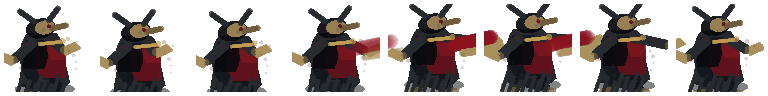
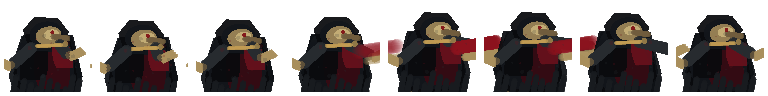
fix: improve gothic enemy assets

diff --git a/tools/generateEnemyBossSheets.py b/tools/generateEnemyBossSheets.py
@@ -82,77 +82,113 @@ def draw_cathedral_ghoul(
     smear: float,
     crouch: float = 0.0,
 ) -> None:
-    bob = math.sin(phase) * 1.5 + crouch
-    cx = fw * 0.5 + attack_reach * 4.0
-    cy = fh * 0.62 + bob
-    shoulder_x = cx - 3.0
-    shoulder_y = cy - 24.0
+    bob = math.sin(phase) * 1.2 + crouch
+    cx = fw * 0.5 + attack_reach * 3.0
+    cy = fh * 0.60 + bob
+    shoulder_x = cx - 1.0
+    shoulder_y = cy - 20.0
 
-    draw_rotated_ellipse(pixels, sheet_width, x_offset, cx - 2, cy + 27, 30, 7, 0.0, SHADOW, fw, fh)
+    draw_rotated_ellipse(pixels, sheet_width, x_offset, cx - 1, cy + 31, 34, 8, 0.0, SHADOW, fw, fh)
 
-    rear_leg = stride * -7.5
-    front_leg = stride * 7.5
-    draw_limb(pixels, sheet_width, x_offset, cx - 10, cy + 14, cx - 18 + rear_leg, cy + 30, 5, COAT_EDGE, fw, fh)
-    draw_limb(pixels, sheet_width, x_offset, cx + 6, cy + 13, cx + 12 + front_leg, cy + 30, 5, INK, fw, fh)
-    draw_rotated_ellipse(pixels, sheet_width, x_offset, cx - 21 + rear_leg, cy + 32, 8, 3, -0.2, BONE_DARK, fw, fh)
-    draw_rotated_ellipse(pixels, sheet_width, x_offset, cx + 15 + front_leg, cy + 32, 8, 3, 0.1, BONE_DARK, fw, fh)
-
-    coat_points = [
-        (cx - 20, cy - 22),
-        (cx + 14, cy - 22),
-        (cx + 24 + stride * 2, cy + 21),
-        (cx + 8, cy + 34),
-        (cx - 28 - stride * 2, cy + 24),
+    fixed_cx = fw * 0.5
+    back_cloak_points = [
+        (fixed_cx - 25, cy - 25),
+        (fixed_cx + 25, cy - 25),
+        (fixed_cx + 34, cy + 15),
+        (fixed_cx + 29, cy + 38),
+        (fixed_cx + 10, cy + 34),
+        (fixed_cx - 5, cy + 43),
+        (fixed_cx - 22, cy + 37),
+        (fixed_cx - 35, cy + 14),
     ]
-    draw_polygon(pixels, sheet_width, x_offset, coat_points, COAT, fw, fh)
-    draw_rotated_ellipse(pixels, sheet_width, x_offset, cx - 4, cy - 5, 23, 31, -0.08, COAT, fw, fh)
-    draw_rotated_ellipse(pixels, sheet_width, x_offset, cx + 4, cy + 1, 15, 26, -0.22, CRIMSON, fw, fh)
-    draw_rotated_ellipse(pixels, sheet_width, x_offset, cx - 11, cy - 5, 12, 24, 0.24, INK, fw, fh)
-    draw_rotated_ellipse(pixels, sheet_width, x_offset, cx + 10, cy - 11, 9, 18, -0.34, (124, 22, 31, 198), fw, fh)
+    draw_polygon(pixels, sheet_width, x_offset, back_cloak_points, (10, 12, 16, 238), fw, fh)
 
-    for i in range(8):
-        tail_x = cx - 24 + i * 6 + math.sin(phase + i) * 1.5
-        tail_y = cy + 15 + (i % 3) * 4
-        draw_limb(pixels, sheet_width, x_offset, tail_x, tail_y, tail_x - 6 + stride * 2, tail_y + 18, 2, COAT_EDGE, fw, fh)
+    mantle_points = [
+        (cx - 25, cy - 24),
+        (cx + 25, cy - 24),
+        (cx + 36, cy + 17),
+        (cx + 26, cy + 43),
+        (cx + 3, cy + 41),
+        (cx - 13, cy + 45),
+        (cx - 31, cy + 40),
+        (cx - 38, cy + 16),
+    ]
+    draw_polygon(pixels, sheet_width, x_offset, mantle_points, (13, 16, 20, 236), fw, fh)
 
-    head_x = shoulder_x - 2 + attack_reach * 2.0
-    head_y = shoulder_y - 10 + math.sin(phase + 0.6) * 0.8
-    draw_rotated_ellipse(pixels, sheet_width, x_offset, head_x, head_y, 15, 10, -0.2, INK, fw, fh)
-    draw_rotated_ellipse(pixels, sheet_width, x_offset, head_x + 4, head_y - 1, 10, 7, -0.18, BONE, fw, fh)
-    draw_limb(pixels, sheet_width, x_offset, head_x + 11, head_y, head_x + 25, head_y - 3, 3, BONE_DARK, fw, fh)
-    draw_circle(pixels, sheet_width, x_offset, head_x + 8, head_y - 2, 2, (92, 8, 15, 220), fw, fh)
-    draw_limb(pixels, sheet_width, x_offset, head_x - 7, head_y - 7, head_x - 21, head_y - 17, 3, COAT_EDGE, fw, fh)
-    draw_limb(pixels, sheet_width, x_offset, head_x + 8, head_y - 8, head_x + 17, head_y - 20, 3, COAT_EDGE, fw, fh)
+    rear_leg = stride * -8.0
+    front_leg = stride * 8.0
+    draw_limb(pixels, sheet_width, x_offset, cx - 10, cy + 20, cx - 19 + rear_leg, cy + 36, 5, COAT_EDGE, fw, fh)
+    draw_limb(pixels, sheet_width, x_offset, cx + 7, cy + 20, cx + 15 + front_leg, cy + 36, 5, INK, fw, fh)
+    draw_rotated_ellipse(pixels, sheet_width, x_offset, cx - 21 + rear_leg, cy + 37, 8, 3, -0.2, BONE_DARK, fw, fh)
+    draw_rotated_ellipse(pixels, sheet_width, x_offset, cx + 17 + front_leg, cy + 37, 8, 3, 0.1, BONE_DARK, fw, fh)
+
+    cloak_points = [
+        (cx - 27, cy - 17),
+        (cx + 24, cy - 18),
+        (cx + 31 + stride * 2, cy + 20),
+        (cx + 20, cy + 39),
+        (cx + 5, cy + 35),
+        (cx - 7, cy + 42),
+        (cx - 22, cy + 37),
+        (cx - 34 - stride * 2, cy + 21),
+    ]
+    draw_polygon(pixels, sheet_width, x_offset, cloak_points, INK, fw, fh)
+    draw_rotated_ellipse(pixels, sheet_width, x_offset, cx - 2, cy + 4, 29, 38, -0.06, COAT, fw, fh)
+    draw_rotated_ellipse(pixels, sheet_width, x_offset, cx + 5, cy + 11, 18, 32, -0.17, DEEP_CRIMSON, fw, fh)
+    draw_rotated_ellipse(pixels, sheet_width, x_offset, cx - 13, cy + 6, 14, 30, 0.16, INK, fw, fh)
+    draw_rotated_ellipse(pixels, sheet_width, x_offset, cx + 16, cy - 2, 10, 22, -0.28, CRIMSON, fw, fh)
+
+    for i in range(10):
+        tail_x = cx - 31 + i * 7 + math.sin(phase + i) * 1.1
+        tail_y = cy + 17 + (i % 4) * 4
+        draw_limb(pixels, sheet_width, x_offset, tail_x, tail_y, tail_x - 4 + stride * 1.2, tail_y + 20, 3, (24, 27, 31, 178), fw, fh)
+
+    head_x = shoulder_x - 1 + attack_reach * 1.5
+    head_y = shoulder_y - 6 + math.sin(phase + 0.6) * 0.7
+    hood_points = [
+        (head_x - 21, head_y - 4),
+        (head_x - 10, head_y - 17),
+        (head_x + 14, head_y - 16),
+        (head_x + 25, head_y - 2),
+        (head_x + 17, head_y + 13),
+        (head_x - 15, head_y + 14),
+    ]
+    draw_polygon(pixels, sheet_width, x_offset, hood_points, INK, fw, fh)
+    draw_rotated_ellipse(pixels, sheet_width, x_offset, head_x + 2, head_y, 17, 13, -0.12, COAT, fw, fh)
+    draw_rotated_ellipse(pixels, sheet_width, x_offset, head_x + 4, head_y + 1, 13, 9, -0.14, BONE, fw, fh)
+    draw_rotated_ellipse(pixels, sheet_width, x_offset, head_x + 7, head_y, 8, 5, -0.12, (206, 184, 126, 204), fw, fh)
+    draw_limb(pixels, sheet_width, x_offset, head_x + 9, head_y + 2, head_x + 23, head_y + 4, 3, BONE_DARK, fw, fh)
+    draw_circle(pixels, sheet_width, x_offset, head_x + 8, head_y - 2, 2, (126, 11, 18, 230), fw, fh)
 
     arm_swing = stride * 5.0
     reach = attack_reach * 24.0
-    draw_limb(pixels, sheet_width, x_offset, shoulder_x - 11, shoulder_y + 5, shoulder_x - 28 - arm_swing, shoulder_y + 20, 5, COAT_EDGE, fw, fh)
-    draw_claw(pixels, sheet_width, x_offset, shoulder_x - 30 - arm_swing, shoulder_y + 22, -1.0, fw, fh)
-    draw_limb(pixels, sheet_width, x_offset, shoulder_x + 10, shoulder_y + 3, shoulder_x + 28 + arm_swing + reach, shoulder_y + 13 - abs(attack_reach) * 5, 5, COAT_EDGE, fw, fh)
-    draw_claw(pixels, sheet_width, x_offset, shoulder_x + 31 + arm_swing + reach, shoulder_y + 14 - abs(attack_reach) * 5, 1.0, fw, fh)
+    draw_limb(pixels, sheet_width, x_offset, shoulder_x - 15, shoulder_y + 8, shoulder_x - 32 - arm_swing, shoulder_y + 23, 6, COAT_EDGE, fw, fh)
+    draw_claw(pixels, sheet_width, x_offset, shoulder_x - 35 - arm_swing, shoulder_y + 25, -1.0, fw, fh)
+    draw_limb(pixels, sheet_width, x_offset, shoulder_x + 14, shoulder_y + 5, shoulder_x + 31 + arm_swing + reach, shoulder_y + 15 - abs(attack_reach) * 4, 6, COAT_EDGE, fw, fh)
+    draw_claw(pixels, sheet_width, x_offset, shoulder_x + 34 + arm_swing + reach, shoulder_y + 17 - abs(attack_reach) * 4, 1.0, fw, fh)
 
     if smear > 0.0:
-        draw_limb(pixels, sheet_width, x_offset, shoulder_x + 21, shoulder_y + 11, shoulder_x + 58, shoulder_y + 3, 7, (SMEAR[0], SMEAR[1], SMEAR[2], int(SMEAR[3] * smear)), fw, fh)
-        draw_limb(pixels, sheet_width, x_offset, shoulder_x + 30, shoulder_y + 19, shoulder_x + 69, shoulder_y + 13, 4, (BONE[0], BONE[1], BONE[2], int(170 * smear)), fw, fh)
+        draw_limb(pixels, sheet_width, x_offset, shoulder_x + 23, shoulder_y + 12, shoulder_x + 62, shoulder_y + 6, 7, (SMEAR[0], SMEAR[1], SMEAR[2], int(SMEAR[3] * smear)), fw, fh)
+        draw_limb(pixels, sheet_width, x_offset, shoulder_x + 31, shoulder_y + 21, shoulder_x + 72, shoulder_y + 16, 4, (BONE[0], BONE[1], BONE[2], int(170 * smear)), fw, fh)
 
-    for i in range(20):
-        angle = -2.5 + i * 0.28 + phase * 0.05
-        radius = 23 + (i % 4) * 4
-        color = (116, 16, 25, 64) if i % 2 == 0 else (53, 58, 61, 54)
+    for i in range(18):
+        angle = -2.5 + i * 0.28 + phase * 0.04
+        radius = 22 + (i % 4) * 4
+        color = (106, 15, 24, 58) if i % 2 == 0 else (42, 48, 52, 46)
         draw_circle(
             pixels,
             sheet_width,
             x_offset,
             cx + math.cos(angle) * radius,
-            cy - 7 + math.sin(angle) * radius * 0.72,
+            cy - 4 + math.sin(angle) * radius * 0.60,
             1 + (i % 3 == 0),
             color,
             fw,
             fh,
         )
 
-    draw_limb(pixels, sheet_width, x_offset, cx - 7, cy - 18, cx + 13, cy - 20, 2, BRASS, fw, fh)
-    draw_circle(pixels, sheet_width, x_offset, cx + 16, cy - 21, 3, BRASS, fw, fh)
+    draw_limb(pixels, sheet_width, x_offset, cx - 10, cy - 14, cx + 14, cy - 15, 2, BRASS, fw, fh)
+    draw_circle(pixels, sheet_width, x_offset, cx + 18, cy - 16, 3, BRASS, fw, fh)
 
 
 def draw_claw(pixels: bytearray, sheet_width: int, x_offset: int, cx: float, cy: float, sign: float, fw: int, fh: int) -> None:
@@ -164,22 +200,35 @@ def draw_claw(pixels: bytearray, sheet_width: int, x_offset: int, cx: float, cy:
 def draw_boss_frame(pixels: bytearray, sheet_width: int, x_offset: int, fw: int, fh: int, frame: int) -> None:
     pulse = math.sin(frame / BOSS_FRAMES * math.tau)
     cx = fw * 0.5
-    cy = fh * 0.55 + pulse * 2.0
+    cy = fh * 0.58 + pulse * 1.6
 
-    draw_rotated_ellipse(pixels, sheet_width, x_offset, cx, cy + 35, 62, 18, 0.0, (10, 11, 13, 150), fw, fh)
-    draw_rotated_ellipse(pixels, sheet_width, x_offset, cx, cy + 4, 50, 56, -0.04, (26, 10, 15, 236), fw, fh)
-    draw_rotated_ellipse(pixels, sheet_width, x_offset, cx - 9, cy - 4, 38, 49, 0.1, (78, 13, 24, 232), fw, fh)
-    draw_rotated_ellipse(pixels, sheet_width, x_offset, cx + 18, cy - 11, 23, 42, -0.25, (116, 26, 31, 210), fw, fh)
-    draw_rotated_ellipse(pixels, sheet_width, x_offset, cx - 35, cy + 7, 18, 45, 0.46, (20, 29, 33, 202), fw, fh)
-    draw_rotated_ellipse(pixels, sheet_width, x_offset, cx + 41, cy + 5, 18, 43, -0.48, (19, 27, 31, 204), fw, fh)
-    draw_rotated_ellipse(pixels, sheet_width, x_offset, cx, cy - 48, 32, 21, 0.0, (22, 24, 26, 238), fw, fh)
-    draw_rotated_ellipse(pixels, sheet_width, x_offset, cx + 10, cy - 51, 13, 8, 0.0, (184, 155, 91, 198), fw, fh)
-    draw_rotated_ellipse(pixels, sheet_width, x_offset, cx - 3, cy - 43, 18, 11, -0.1, BONE, fw, fh)
+    draw_rotated_ellipse(pixels, sheet_width, x_offset, cx, cy + 39, 66, 18, 0.0, (10, 11, 13, 160), fw, fh)
+    robe_points = [
+        (cx - 55, cy - 39),
+        (cx - 35, cy - 58),
+        (cx + 34, cy - 59),
+        (cx + 58, cy - 37),
+        (cx + 70, cy + 51),
+        (cx + 38, cy + 68),
+        (cx + 12, cy + 58),
+        (cx - 15, cy + 70),
+        (cx - 43, cy + 58),
+        (cx - 72, cy + 49),
+    ]
+    draw_polygon(pixels, sheet_width, x_offset, robe_points, INK, fw, fh)
+    draw_rotated_ellipse(pixels, sheet_width, x_offset, cx, cy + 8, 58, 63, -0.04, (22, 14, 19, 244), fw, fh)
+    draw_rotated_ellipse(pixels, sheet_width, x_offset, cx - 12, cy + 1, 42, 54, 0.08, DEEP_CRIMSON, fw, fh)
+    draw_rotated_ellipse(pixels, sheet_width, x_offset, cx + 20, cy - 5, 26, 48, -0.22, CRIMSON, fw, fh)
+    draw_rotated_ellipse(pixels, sheet_width, x_offset, cx - 42, cy + 10, 22, 50, 0.42, COAT, fw, fh)
+    draw_rotated_ellipse(pixels, sheet_width, x_offset, cx + 47, cy + 8, 21, 48, -0.46, COAT, fw, fh)
+    draw_rotated_ellipse(pixels, sheet_width, x_offset, cx, cy - 44, 35, 25, 0.0, INK, fw, fh)
+    draw_rotated_ellipse(pixels, sheet_width, x_offset, cx - 2, cy - 39, 25, 15, -0.08, BONE, fw, fh)
+    draw_rotated_ellipse(pixels, sheet_width, x_offset, cx + 13, cy - 43, 12, 7, 0.0, (210, 181, 112, 214), fw, fh)
 
-    draw_limb(pixels, sheet_width, x_offset, cx - 25, cy - 62, cx - 62, cy - 91, 5, (32, 35, 36, 225), fw, fh)
-    draw_limb(pixels, sheet_width, x_offset, cx + 25, cy - 62, cx + 62, cy - 91, 5, (32, 35, 36, 225), fw, fh)
-    draw_limb(pixels, sheet_width, x_offset, cx - 38, cy - 54, cx - 78, cy - 65, 4, (92, 18, 26, 164), fw, fh)
-    draw_limb(pixels, sheet_width, x_offset, cx + 38, cy - 54, cx + 78, cy - 65, 4, (92, 18, 26, 164), fw, fh)
+    draw_limb(pixels, sheet_width, x_offset, cx - 31, cy - 49, cx - 64, cy - 47, 5, (31, 35, 37, 218), fw, fh)
+    draw_limb(pixels, sheet_width, x_offset, cx + 31, cy - 49, cx + 64, cy - 47, 5, (31, 35, 37, 218), fw, fh)
+    draw_limb(pixels, sheet_width, x_offset, cx - 45, cy - 41, cx - 83, cy - 40, 5, (92, 18, 26, 176), fw, fh)
+    draw_limb(pixels, sheet_width, x_offset, cx + 45, cy - 41, cx + 83, cy - 40, 5, (92, 18, 26, 176), fw, fh)
 
     for i in range(26):
         angle = -2.8 + i * 0.22 + frame * 0.035

diff --git a/.agents/skills/gothic-enemy-asset-direction/SKILL.md b/.agents/skills/gothic-enemy-asset-direction/SKILL.md
@@ -1,0 +1,66 @@
+---
+name: gothic-enemy-asset-direction
+description: Refine dark gothic 2D enemy and boss sprites so they match a moody castle/action game scene, especially when assets look toy-like, too flat, too small, or visually disconnected from the background. Use with deterministic sprite generators and asset QA tests for enemy idle, walk, attack, and boss sheets.
+---
+
+# Gothic Enemy Asset Direction
+
+Use this when enemy or boss sprites feel cheap, cartoony, toy-like, or disconnected from a dark gothic stage.
+
+## Core Rule
+
+Design the enemy for the in-game camera first, not for a zoomed-in asset viewer. At gameplay scale the sprite must read as:
+
+- one strong dark silhouette
+- one pale face or mask focal point
+- one crimson or brass secondary accent
+- one attack-readable limb, claw, weapon, or smear
+
+Small horns, antenna-like rods, dots, and thin limb details often read as placeholder art against a dense dark background. Replace them with larger hood, cloak, mask, shoulder, and tattered-cloth shapes.
+
+## Sprite Contract
+
+For Ecliptica-style enemy sheets:
+
+- Enemy frames: `96x96`, horizontal row.
+- Boss frames: `192x160`, horizontal row.
+- Keep at least 4 px transparent gutters.
+- Avoid visible pixels in the top 8% of enemy frames unless the silhouette deliberately needs it.
+- Put most visual mass in the central body region so the enemy remains readable over the stage.
+- Preserve animation names and frame counts already wired in Godot.
+
+## Visual Recipe
+
+For standard enemies:
+
+1. Start with a fixed back-cloak silhouette centered in the frame.
+2. Add a hood or hunched shoulder mass.
+3. Add a pale mask/skull face large enough to read at gameplay scale.
+4. Add crimson inner cloth as one broad shape, not many tiny red pixels.
+5. Add claws/arms only after the body reads.
+6. Attack frames may stretch one arm or smear, but should not collapse the central silhouette.
+
+For bosses:
+
+1. Use a larger robe/torso mass before adding decorations.
+2. Avoid long top-edge rods that read like antennae.
+3. Put horns, collars, chains, or appendages below the top gutter and integrated with shoulders.
+4. Keep the pale head/mask prominent and stable.
+
+## Validation
+
+Before accepting the asset:
+
+- Run the asset contract test, especially `test/enemyBossAssetCheck.mjs`.
+- View the actual PNG sheets at original size and ask whether the silhouette reads without explanation.
+- Run the Godot headless verification or full `npm run test`.
+- If a threshold fails, prefer adding/removing large silhouette shapes over loosening the test.
+
+## Implementation Notes
+
+In deterministic generators:
+
+- Draw the back cloak before legs, arms, and face.
+- Keep frame-center silhouette layers fixed across idle/walk/attack.
+- Let walk/attack move limbs and cloth edges, not the whole body mass.
+- Use dark navy/black cloak mass, aged bone highlights, restrained crimson, and brass accents.
